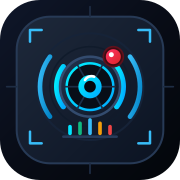
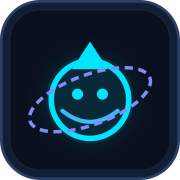
chore: Optimize GitHub Pages catalog and app portals for mobile view

diff --git a/index.html b/index.html
@@ -22,14 +22,14 @@
     <meta property="og:site_name" content="KimRosil App Studio">
     <meta property="og:title" content="KimRosil App Studio | High-Performance Offline Native Android Applications">
     <meta property="og:description" content="Suite of 50 high-performance, offline-first Android apps built natively on ARM64 with domain craftsmanship.">
-    <meta property="og:image" content="https://apps.kimrosil.com/assets/icons/kim-live-studio.svg">
+    <meta property="og:image" content="https://apps.kimrosil.com/assets/icon.svg">
 
     <!-- Twitter Card -->
     <meta name="twitter:card" content="summary_large_image">
     <meta name="twitter:url" content="https://apps.kimrosil.com/">
     <meta name="twitter:title" content="KimRosil App Studio | High-Performance Offline Native Android Applications">
     <meta name="twitter:description" content="Suite of 50 high-performance, offline-first Android apps built natively on ARM64 with domain craftsmanship.">
-    <meta name="twitter:image" content="https://apps.kimrosil.com/assets/icons/kim-live-studio.svg">
+    <meta name="twitter:image" content="https://apps.kimrosil.com/assets/icon.svg">
 
     <!-- Structured Data (JSON-LD) -->
     <script type="application/ld+json">
@@ -38,7 +38,7 @@
     "@type": "Organization",
     "name": "KimRosil App Studio",
     "url": "https://apps.kimrosil.com/",
-    "logo": "https://apps.kimrosil.com/assets/icons/kim-live-studio.svg",
+    "logo": "https://apps.kimrosil.com/assets/icon.svg",
     "description": "Suite of high-performance, offline-first Android applications built natively on ARM64 with domain craftsmanship.",
     "sameAs": [
         "https://github.com/eliakimrosil/kimrosil-app-studio"
@@ -438,7 +438,7 @@
     <div class="container">
         <header>
             <div class="brand-logo-frame">
-                <img src="assets/icons/kim-live-studio.svg" alt="KimRosil App Studio" width="76" height="76" class="site-brand-logo">
+                <img src="assets/icon.svg" alt="KimRosil App Studio" width="76" height="76" class="site-brand-logo">
             </div>
             <div class="brand-badge">KIMROSIL APP STUDIO &bull; NATIVE ANDROID ECOSYSTEM</div>
             <h1>⚡ KimRosil App Studio</h1>

diff --git a/testers.html b/testers.html
@@ -18,14 +18,14 @@
     <meta property="og:site_name" content="KimRosil App Studio">
     <meta property="og:title" content="Google Play Closed Testing Program | KimRosil App Studio">
     <meta property="og:description" content="Official Google Play 20-Tester closed beta program for KimRosil App Studio. Opt-in to test high-performance, private Android utilities.">
-    <meta property="og:image" content="https://apps.kimrosil.com/assets/icons/kim-live-studio.svg">
+    <meta property="og:image" content="https://apps.kimrosil.com/assets/icon.svg">
 
     <!-- Twitter -->
     <meta name="twitter:card" content="summary_large_image">
     <meta name="twitter:url" content="https://apps.kimrosil.com/testers.html">
     <meta name="twitter:title" content="Google Play Closed Testing Program | KimRosil App Studio">
     <meta name="twitter:description" content="Official Google Play 20-Tester closed beta program for KimRosil App Studio. Opt-in to test high-performance, private Android utilities.">
-    <meta name="twitter:image" content="https://apps.kimrosil.com/assets/icons/kim-live-studio.svg">
+    <meta name="twitter:image" content="https://apps.kimrosil.com/assets/icon.svg">
     <style>
         * { box-sizing: border-box; margin: 0; padding: 0; }
         body {
@@ -482,7 +482,7 @@
 
         <header>
             <div class="brand-logo-frame">
-                <img src="assets/icons/kim-live-studio.svg" alt="KimRosil App Studio" width="72" height="72" class="site-brand-logo">
+                <img src="assets/icon.svg" alt="KimRosil App Studio" width="72" height="72" class="site-brand-logo">
             </div>
             <div class="brand-badge">KIMROSIL APP STUDIO &bull; 20-TESTER CLOSED BETA PROGRAM</div>
             <h1>🧪 Closed Testing Portal</h1>
